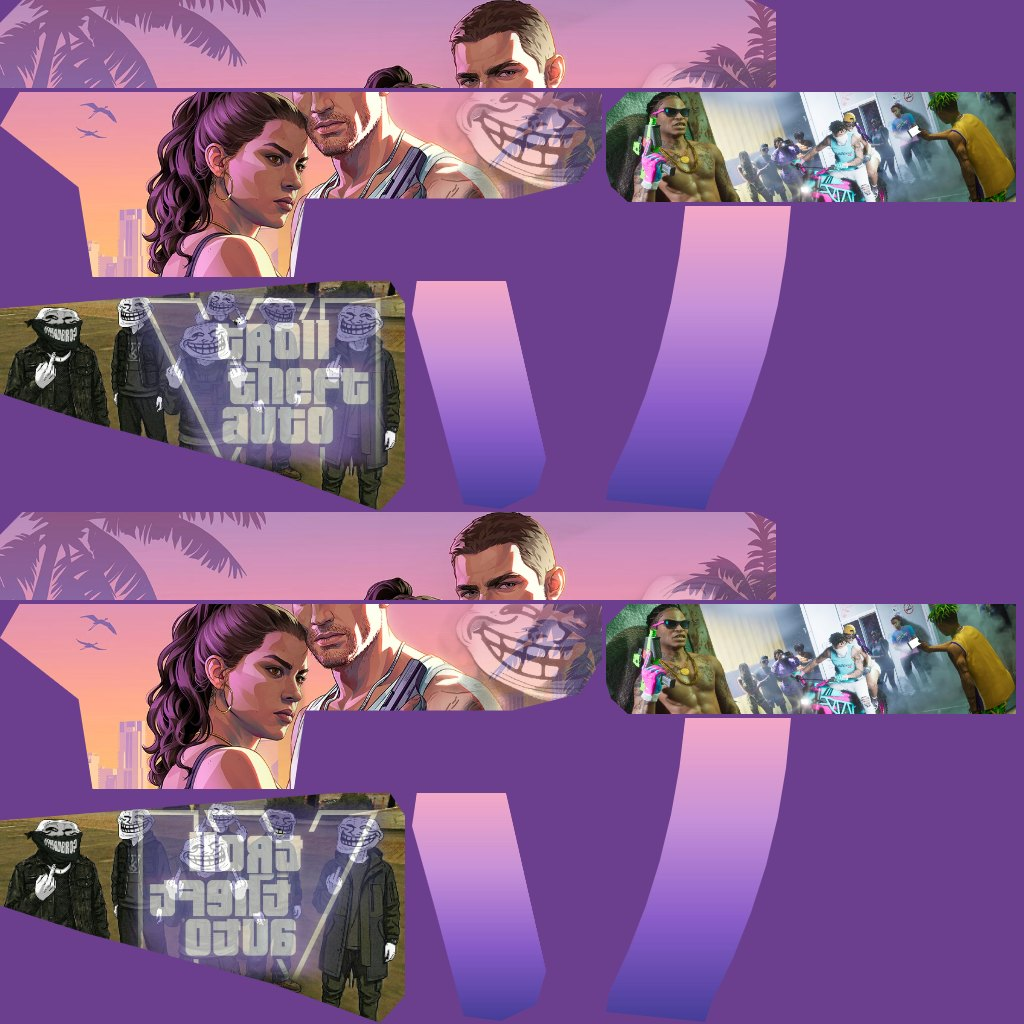
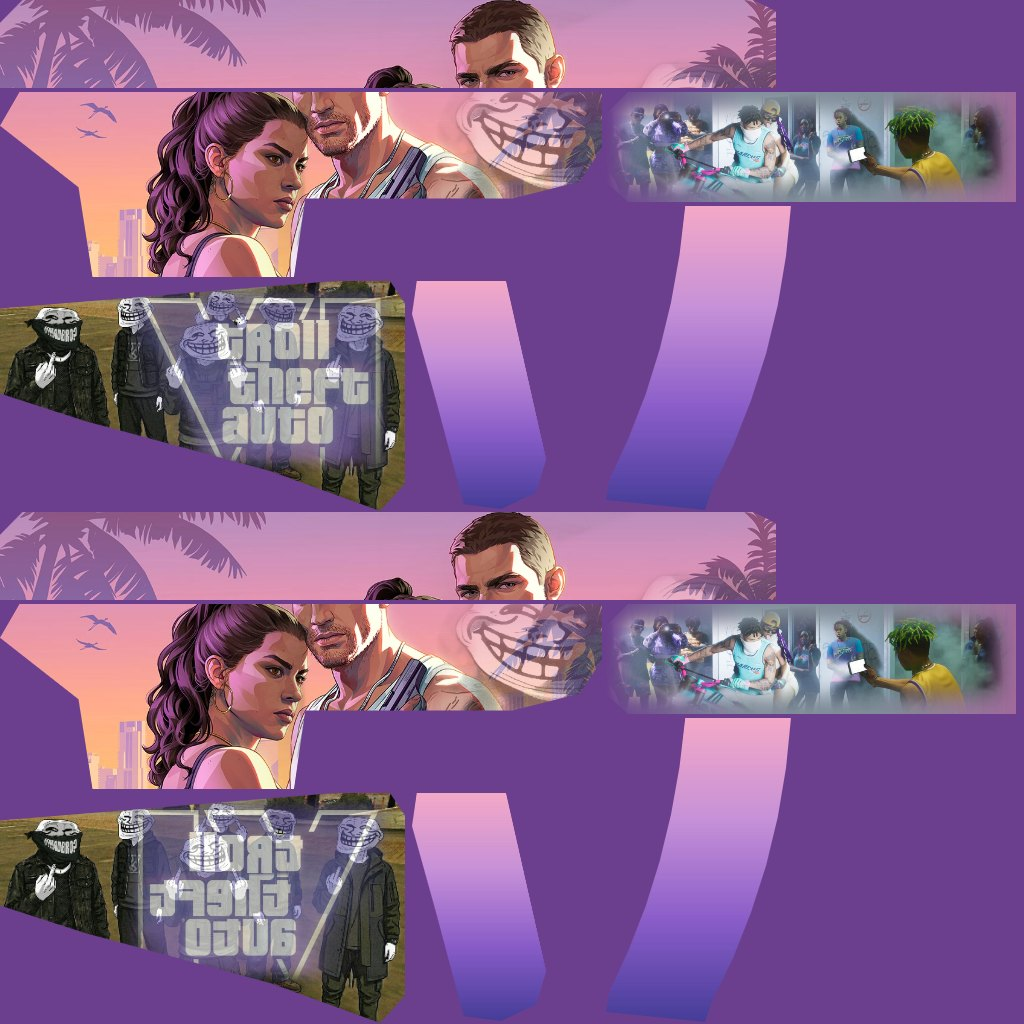
Vice Grin final: handguard art blends into the parts around it
The user's latest Vice Grin edits, plus a blend on the handguard: its base
is now a gradient (trim purple at the muzzle, the alley art's own blue-grey
in the middle, the receiver's mauve at the back) and the GTA 6 alley art
sits on it as a soft-edged layer, so it no longer stops hard against the
receiver. Also adds skin-art/gta6-pink-glasses.jpg to the picture strip.

Changed region(s): [[0.5938, 0.5625, 1.0, 0.7188], [0.5938, 0.0625, 1.0, 0.2188]]

diff --git a/assets/games/troll-ops/skins.js b/assets/games/troll-ops/skins.js
@@ -275,11 +275,11 @@ export const SKINS = [
     blurb: "Leonida sunset, fully loaded.",
     final: true,
     palette: { trim: "#6c3f8e", ink: "#fff4e8", metal: 0x2b2233, accent: 0xff8fb8 },
-    art: { grip: "vice-gradient.jpg", mag: "vice-gradient.jpg", stock: "troll-crew-san-andreas.jpg", handguard: "gta6-troll-skin-part.jpg" },
-    layers: { receiver: [{ file: "banners/banner-11.jpg", src: [0.345, 0, 1, 1], at: [0.923, 0.587, 0.875], feather: 0.65, opacity: 0.65, id: "rkn0gy", mask: "vice-rkn0gy-mujaulpy.png", lock: 1 }], stock: [{ id: "8osvw2", file: "skin-art/vice-robbery-troll.jpg", src: [0.044, 0.05, 0.376, 0.486], at: [0.64, 0.42, 0.676], text: 1, feather: 0.15, opacity: 0.65, lock: 1, mask: "vice-8osvw2-mukhm6ar.png" }] },
+    art: { grip: "vice-gradient.jpg", mag: "vice-gradient.jpg", stock: "troll-crew-san-andreas.jpg", handguard: "vice-handguard-blend.jpg" },
+    layers: { handguard: [{ id: "hgart1", file: "skin-art/gta6-troll-skin-part.jpg", src: [0.2475, 0.3255, 0.7525, 0.5663], at: [0.5, 0.5, 1], feather: 0.35 }], receiver: [{ file: "banners/banner-11.jpg", src: [0.345, 0, 1, 1], at: [0.923, 0.587, 0.875], feather: 0.65, opacity: 0.65, id: "rkn0gy", mask: "vice-rkn0gy-mujaulpy.png", lock: 1 }], stock: [{ id: "8osvw2", file: "skin-art/vice-robbery-troll.jpg", src: [0.044, 0.05, 0.376, 0.486], at: [0.64, 0.42, 0.676], text: 1, feather: 0.15, opacity: 0.65, lock: 1, mask: "vice-8osvw2-mukhm6ar.png" }] },
     crops: {
       receiver: [0.5, 0.344, 1],
-      handguard: [0.369, 0.413, 0.746, 17.019],
+      handguard: [0.5, 0.5, 1],
       stock: [0.489, 0.627, 0.977],
       grip: [0.5, 0.5, 0.59],
       mag: [0.5, 0.5, 0.61],
